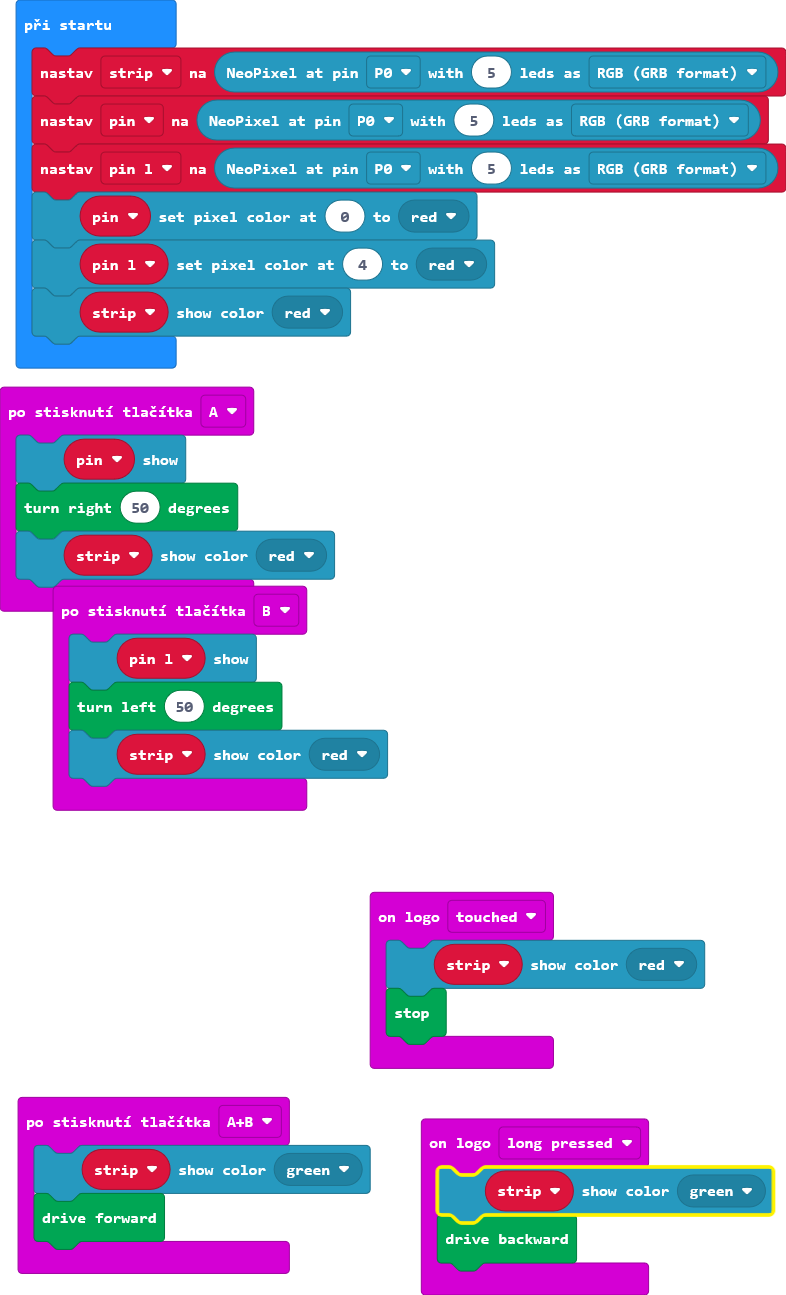
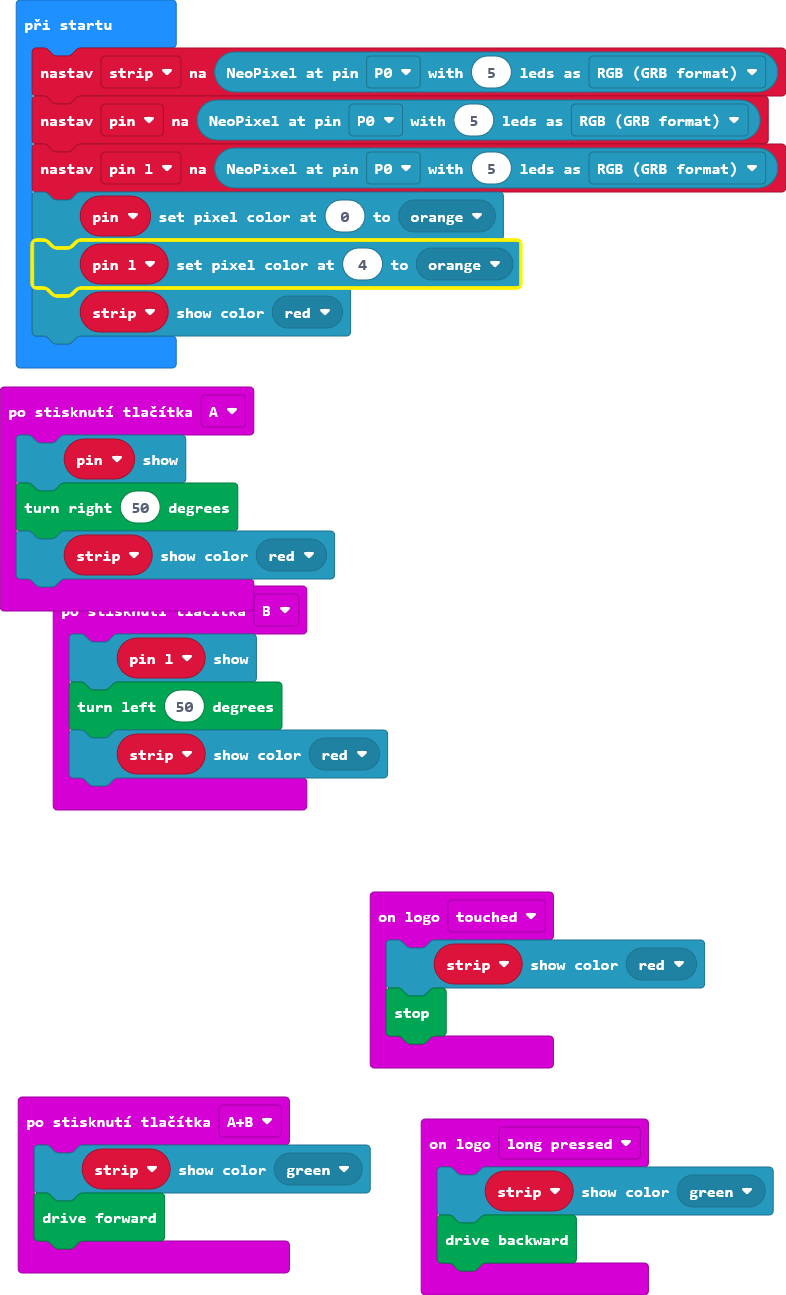
Aktualizovat main.blocks, main.ts

diff --git a/main.ts b/main.ts
@@ -26,6 +26,6 @@ let strip: neopixel.Strip = null
 strip = neopixel.create(DigitalPin.P0, 5, NeoPixelMode.RGB)
 pin = neopixel.create(DigitalPin.P0, 5, NeoPixelMode.RGB)
 pin_l = neopixel.create(DigitalPin.P0, 5, NeoPixelMode.RGB)
-pin.setPixelColor(0, neopixel.colors(NeoPixelColors.Red))
-pin_l.setPixelColor(4, neopixel.colors(NeoPixelColors.Red))
+pin.setPixelColor(0, neopixel.colors(NeoPixelColors.Orange))
+pin_l.setPixelColor(4, neopixel.colors(NeoPixelColors.Orange))
 strip.showColor(neopixel.colors(NeoPixelColors.Red))
